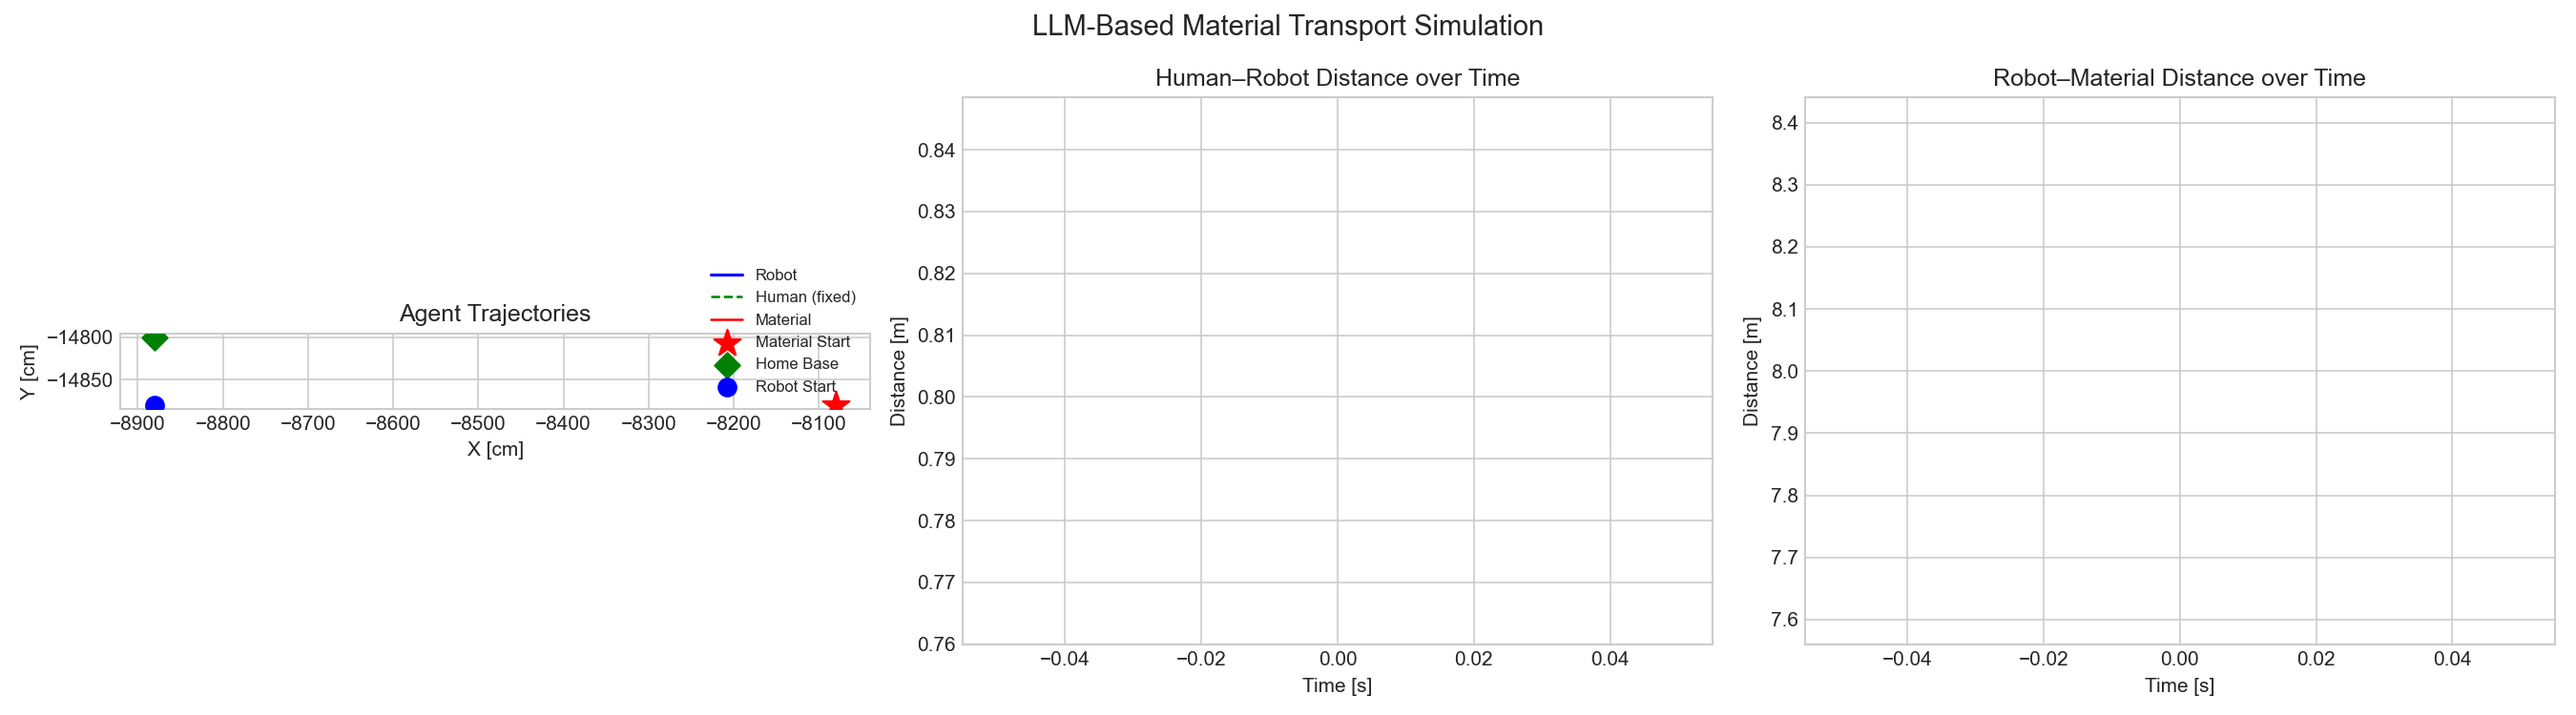
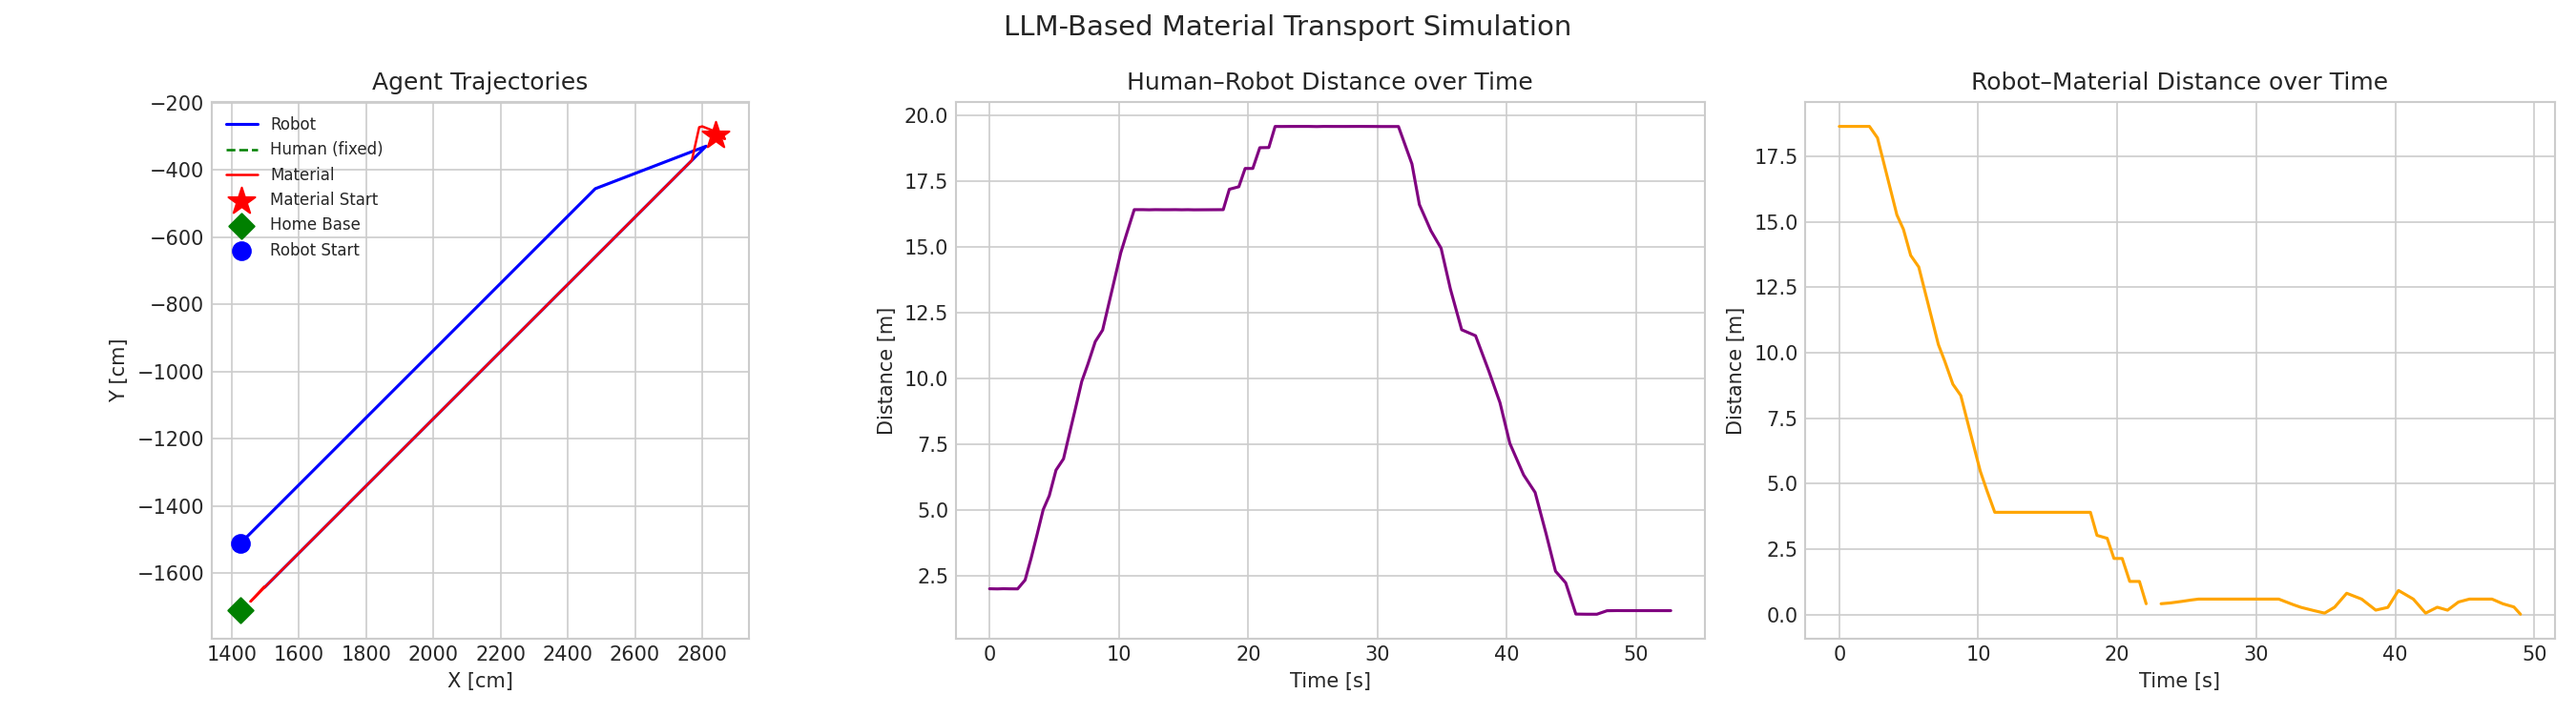
Add integration test script and update material_transport_llm notebook
- Introduced a new integration test script for the material transport LLM to facilitate headless execution.
- Added a costmap image for visualization in path planning.
- Enhanced the material_transport_llm notebook with new imports and functions to manage matplotlib backend settings.
- Updated plotting logic to conditionally show or close figures based on the backend configuration.
- Introduced a total steps limit in path planning to prevent infinite loops during navigation.

diff --git a/dev/llm_material_transport/material_transport_llm.py b/dev/llm_material_transport/material_transport_llm.py
@@ -47,6 +47,7 @@
 
 # %%
 import math
+import os
 import socket
 import subprocess
 import sys
@@ -56,6 +57,11 @@ from dataclasses import dataclass
 from enum import Enum
 from pathlib import Path
 from typing import List, Optional, Tuple
+
+import matplotlib
+
+if os.environ.get("MPLBACKEND"):
+    matplotlib.use(os.environ["MPLBACKEND"])
 
 import matplotlib.patches as mpatches
 import matplotlib.pyplot as plt
@@ -275,6 +281,11 @@ def ensure_connection() -> Tuple[UnrealCV, Communicator]:
 
 
 plt.style.use("seaborn-v0_8-whitegrid")
+
+
+def _matplotlib_show_enabled() -> bool:
+    backend = plt.get_backend().lower()
+    return backend not in {"agg", "svg", "pdf", "ps", "cairo"}
 
 # %%
 # ==============================================================
@@ -551,6 +562,7 @@ PATH_WP_REACH_TOLERANCE_CM = 80.0   # 中間 WP 到達判定 [cm]
 PATH_MAX_OPEN_LOOP_MOVE_CM = 400.0  # 1 コマンドあたりの最大前進 [cm]
 PATH_MAX_STEPS_PER_WP = 40          # WP あたりの最大制御ステップ
 PATH_REPLAN_STUCK_STEPS = 14        # これ以上進まなければ現在地から WP 列を再生成
+PATH_MAX_TOTAL_STEPS = 600          # レッグ全体の安全上限（無限ループ防止）
 
 # ---- Human 手前での停止・受け渡し [cm] ----
 HUMAN_APPROACH_STANDOFF_CM = 100.0  # Human から 1 m 手前で停止して箱を置く
@@ -1361,6 +1373,7 @@ def robot_navigate_planned_leg(
     )
     wp_index = 0
     steps_on_wp = 0
+    total_steps = 0
 
     print(
         f"  [Planner] {planner}: {len(waypoints)} WP(s) to {goal_xy} {label}"
@@ -1369,6 +1382,11 @@ def robot_navigate_planned_leg(
         print(f"    WP{index + 1}: ({waypoint[0]:.1f}, {waypoint[1]:.1f})")
 
     while not stop_event.is_set():
+        total_steps += 1
+        if total_steps > PATH_MAX_TOTAL_STEPS:
+            print(f"  [Planner] ERROR: exceeded PATH_MAX_TOTAL_STEPS={PATH_MAX_TOTAL_STEPS}")
+            return False
+
         pos_xy = get_pos2d(ROBOT_NAME)
         if dist2d(pos_xy, goal_xy) <= tolerance_cm:
             print(f"  [Planner] Arrived at goal (dist={dist2d(pos_xy, goal_xy):.1f} cm)")
@@ -1760,7 +1778,10 @@ else:
     plt.tight_layout()
     output_path = _output_dir / "result.png"
     plt.savefig(output_path, dpi=150)
-    plt.show()
+    if _matplotlib_show_enabled():
+        plt.show()
+    else:
+        plt.close(fig)
     print(f"Figure saved: {output_path}")
 
 if _transport_costmap is not None and _path_plan_history:

diff --git a/dev/llm_material_transport/_run_integration_test.py b/dev/llm_material_transport/_run_integration_test.py
@@ -1,0 +1,30 @@
+#!/usr/bin/env python3
+"""Headless integration run for material_transport_llm (simworld env, UE required)."""
+from __future__ import annotations
+
+import os
+import runpy
+import sys
+import traceback
+from pathlib import Path
+
+ROOT = Path(__file__).resolve().parents[2]
+SCRIPT = Path(__file__).resolve().parent / "material_transport_llm.py"
+
+os.environ.setdefault("MPLBACKEND", "Agg")
+
+
+def main() -> int:
+    sys.path.insert(0, str(ROOT))
+    sys.path.insert(0, str(SCRIPT.parent))
+    print(f"Running integration script: {SCRIPT}")
+    try:
+        runpy.run_path(str(SCRIPT), run_name="__main__")
+    except Exception:
+        traceback.print_exc()
+        return 1
+    return 0
+
+
+if __name__ == "__main__":
+    raise SystemExit(main())

diff --git a/dev/llm_material_transport/path_planning_costmap.py b/dev/llm_material_transport/path_planning_costmap.py
@@ -14,8 +14,14 @@ import math
 from dataclasses import dataclass
 from typing import List, Optional, Sequence, Tuple
 
+import matplotlib
 import matplotlib.pyplot as plt
 import numpy as np
+
+
+def _matplotlib_show_enabled() -> bool:
+    backend = matplotlib.get_backend().lower()
+    return backend not in {"agg", "svg", "pdf", "ps", "cairo"}
 
 GridCell = Tuple[int, int]
 WorldXY = Tuple[float, float]
@@ -420,6 +426,8 @@ def plot_costmap_with_paths(
     plt.tight_layout()
     if save_path:
         fig.savefig(save_path, dpi=150)
-    if show:
+    if show and _matplotlib_show_enabled():
         plt.show()
+    else:
+        plt.close(fig)
     return fig
